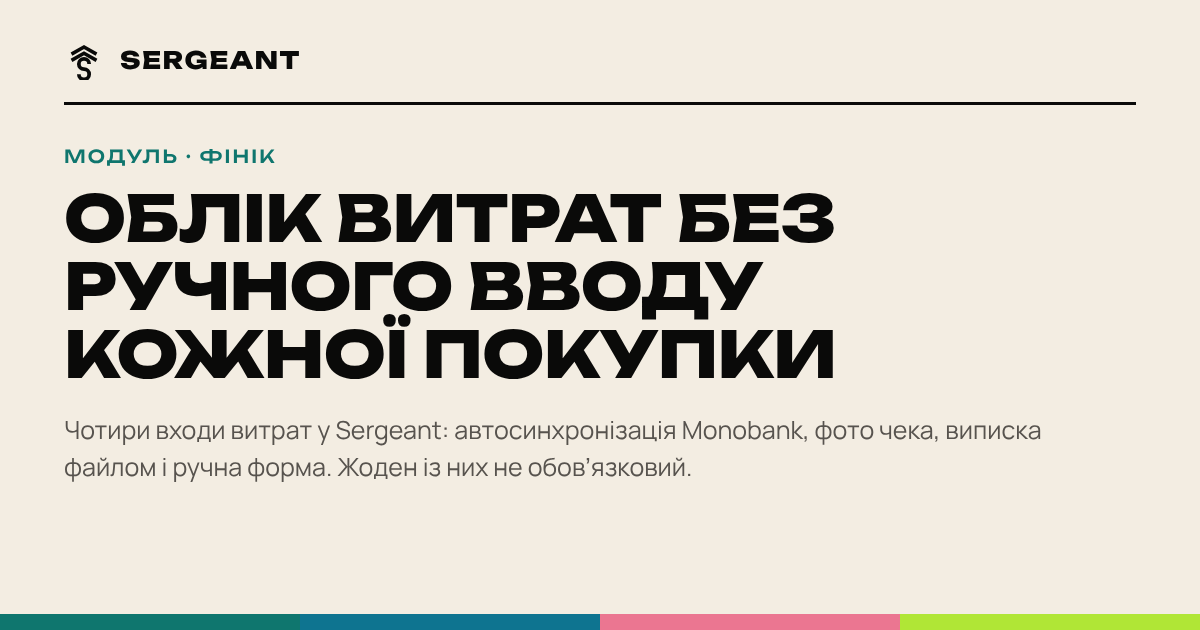
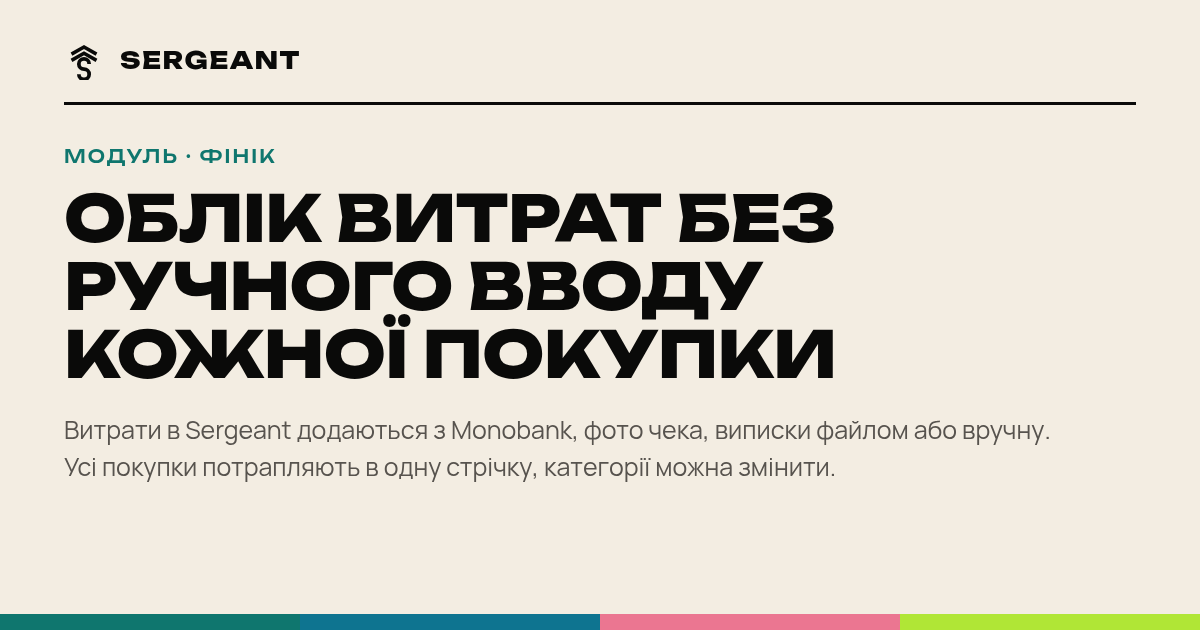
fix(web): clarify landing observations and request limits

Changed region(s): [[0.0308, 0.6635, 0.8633, 0.754], [0.1542, 0.2413, 0.185, 0.2714]]

diff --git a/apps/landing/src/pages/HomePage.tsx b/apps/landing/src/pages/HomePage.tsx
@@ -17,7 +17,7 @@ import { ORGANIZATION_ID } from "../lib/jsonLd";
 /**
  * Сценарії «живого звʼязку» в hero: скільки тренувань – стільки доставки.
  * Дані ілюстративні (підпис у нотатці про це каже) – сенс віджета в тому,
- * щоб показати причину-наслідок, а не конкретні числа. Рівень впевненості
+ * щоб показати спостереження, а не причинний вплив. Рівень впевненості
  * один на всі три стани: це та сама закономірність, а не три різні, і
  * підпис береться з канонічної шкали (`CONFIDENCE`), а не вигадується.
  */
@@ -25,17 +25,17 @@ const HERO_SCENARIOS = {
   1: {
     spend: "2 260",
     pct: 90,
-    note: "У тижні з одним тренуванням доставки найбільше",
+    note: "У тижні з одним тренуванням витрати на доставку найвищі",
   },
   3: {
     spend: "1 840",
     pct: 74,
-    note: "Три тренування, і замовлень доставки вже менше",
+    note: "У тижні з трьома тренуваннями витрати на доставку нижчі",
   },
   5: {
     spend: "1 320",
     pct: 53,
-    note: "Пʼять тренувань, і доставка падає майже вдвічі",
+    note: "У тижні з пʼятьма тренуваннями витрати на доставку найнижчі",
   },
 } as const;
 
@@ -47,7 +47,7 @@ type HeroTrainings = keyof typeof HERO_SCENARIOS;
  * Hero-колаж: картки даних, «розкидані на столі», і нотатка-інсайт, яку
  * Sergeant ніби лишив поверх них. Картка тренувань – живий перемикач:
  * 1/3/5 тренувань перераховують бар доставки і саму нотатку, показуючи
- * причину-наслідок замість статичної картинки. До lg – звичайна колонка
+ * спостереження з різних тижнів. До lg – звичайна колонка
  * з легкими нахилами, на lg – absolute-розкладка з пунктирними звʼязками.
  */
 function HeroCollage() {
@@ -178,7 +178,7 @@ export default function HomePage() {
           operatingSystem: "Web",
           description: ROUTE_META["/"].description,
           featureList: [
-            "Гроші: чотири входи витрат – синхронізація Monobank, фото чека, виписка файлом, ручна форма",
+            "Гроші: витрати з Monobank, фото чека, виписки файлом або вручну",
             "Тіло: щоденник тренувань, тоннаж і рекорди",
             "Звички: серія, яку не обнуляє пропуск із причиною",
             "Їжа: КБЖВ зі штрихкоду, фото страви та української бази продуктів",
@@ -223,14 +223,20 @@ export default function HomePage() {
           </h1>
           <p className="max-w-lg text-lg leading-relaxed text-pretty text-muted">
             Гроші, тренування, звички і їжа в одному приватному застосунку. Він
-            помічає, як тиждень без тренувань відгукується в доставці, і
-            мовчить, поки даних замало. Рахує, а не читає лекцій.
+            порівнює твої записи й помічає звʼязки між сферами, коли даних
+            вистачає. Рахує, а не читає лекцій.
           </p>
           <div className="flex flex-col gap-2.5">
             <TelegramCta placement="hero" label="Стати в чергу" />
             <p className="text-sm text-subtle">
-              безкоштовно назавжди: чотири модулі й 20 дій Сержанта щотижня ·
-              дані твої,{" "}
+              безкоштовно назавжди: чотири модулі й{" "}
+              <a
+                href="/pomichnyk#limity"
+                className="font-semibold text-foreground underline decoration-cardline-strong underline-offset-4 transition hover:decoration-current focus-visible:outline-2 focus-visible:outline-offset-2 focus-visible:outline-ink"
+              >
+                20 запитів до Сержанта щотижня
+              </a>{" "}
+              · дані твої,{" "}
               <a
                 href="/vyhid"
                 className="font-semibold text-foreground underline decoration-cardline-strong underline-offset-4 transition hover:decoration-current focus-visible:outline-2 focus-visible:outline-offset-2 focus-visible:outline-ink"

diff --git a/apps/landing/src/components/HomeSections.tsx b/apps/landing/src/components/HomeSections.tsx
@@ -62,10 +62,10 @@ export function ModulesSection() {
           <p className={label}>модуль Фінік</p>
           <h3 className={`${title} group-hover:underline`}>Гроші</h3>
           <p className={`${body} text-ink-text`}>
-            Чотири входи витрат замість одного банку.
+            Витрати з банку, фото чека, виписки або вручну.
           </p>
           <p className="mt-3 text-xs leading-relaxed text-ink-text">
-            У звʼязках: як доставка їжі залежить від тренувань
+            У звʼязках: тренування і витрати на доставку
           </p>
         </a>
 
@@ -79,7 +79,7 @@ export function ModulesSection() {
             Щоденник тренувань і порада, коли відпочити.
           </p>
           <p className="mt-3 text-xs leading-relaxed text-ink-text">
-            У звʼязках: як тренування тримають звички
+            У звʼязках: тренування і виконання звичок
           </p>
         </a>
 
@@ -93,7 +93,7 @@ export function ModulesSection() {
             Пропуск із причиною не обнуляє серію.
           </p>
           <p className="mt-3 text-xs leading-relaxed text-ink">
-            У звʼязках: як звички впливають на їжу і витрати
+            У звʼязках: звички, їжа і витрати
           </p>
         </a>
 
@@ -107,7 +107,7 @@ export function ModulesSection() {
             КБЖВ, коли половини продуктів немає в базах.
           </p>
           <p className="mt-3 text-xs leading-relaxed text-ink">
-            У звʼязках: як їжа відгукується на звички
+            У звʼязках: їжа і виконання звичок
           </p>
         </a>
       </div>
@@ -140,7 +140,7 @@ export function ConnectionExamples() {
           <span className="text-routine-strong">Рутина</span>
         </div>
         <blockquote className="text-lg font-medium leading-snug text-foreground">
-          «Коли тренуєшся важче, краще тримаєш звички»
+          «У дні з більшим обʼємом тренувань звички виконувалися частіше»
         </blockquote>
         <figcaption className="mt-auto text-xs text-subtle">
           {CONFIDENCE.stable} · 34 спільні дні
@@ -157,7 +157,7 @@ export function ConnectionExamples() {
           <span className="text-routine-strong">Рутина</span>
         </div>
         <blockquote className="text-lg font-medium leading-snug text-foreground">
-          «Коли тримаєш звички, їси менше»
+          «У дні з виконаними звичками записано менше калорій»
         </blockquote>
         <figcaption className="mt-auto text-xs text-subtle">
           {CONFIDENCE.coincidence} · 2 тижні даних
@@ -194,8 +194,8 @@ export function ConnectionsSection() {
         Звʼязки, які він помічає
       </h2>
       <p className="mt-4 max-w-2xl leading-relaxed text-muted">
-        Окремі трекери показують цифри. Застосунок читає всі сфери разом і
-        показує, як вони впливають одна на одну. А коли даних замало, мовчить.
+        Окремі трекери показують цифри. Застосунок порівнює записи з усіх сфер і
+        показує звʼязки між ними. Коли даних замало, мовчить.
       </p>
 
       <ConnectionExamples />

diff --git a/apps/landing/src/pages/HroshiPage.tsx b/apps/landing/src/pages/HroshiPage.tsx
@@ -129,10 +129,10 @@ export default function HroshiPage() {
         Облік витрат без ручного вводу кожної покупки
       </h1>
       <p className="mt-5 max-w-2xl text-lg leading-relaxed text-pretty text-muted">
-        У Фініку чотири входи витрат, і жоден із них не головний. Банк присилає
-        операції сам. Паперовий чек стає витратою з фотографії, виписку іншого
-        банку можна завантажити файлом. Руками лишається те, на що немає ні
-        чека, ні виписки.
+        Витрати додаються з Monobank, фото чека, виписки файлом або вручну.
+        Monobank присилає операції сам. Паперовий чек стає витратою з
+        фотографії, виписку іншого банку можна завантажити файлом. Руками
+        лишається те, на що немає ні чека, ні виписки.
       </p>
       <p className="mt-3 text-sm text-subtle">
         Оновлено{" "}
@@ -143,7 +143,7 @@ export default function HroshiPage() {
       </p>
 
       <section className="mt-14">
-        <h2 className={h2}>Чотири входи</h2>
+        <h2 className={h2}>Як додати витрату</h2>
         <p className={body}>
           Без Monobank Фінік працює так само: чек, виписка і ручна форма банку
           не потребують. Підключити його можна пізніше або ніколи.
@@ -164,8 +164,9 @@ export default function HroshiPage() {
           ))}
         </div>
         <p className="mt-6 max-w-2xl text-sm leading-relaxed text-subtle">
-          Усі чотири входи ведуть в одну стрічку операцій. Категорію будь-якої з
-          них можна змінити руками, і твій вибір перебиває вгадування.
+          Витрати з усіх джерел потрапляють в одну стрічку операцій. Категорію
+          будь-якої з них можна змінити руками, і твій вибір перебиває
+          вгадування.
         </p>
       </section>
 

diff --git a/apps/landing/src/pages/PomichnykPage.tsx b/apps/landing/src/pages/PomichnykPage.tsx
@@ -79,7 +79,7 @@ export default function PomichnykPage() {
       <p className="mt-5 max-w-2xl text-lg leading-relaxed text-pretty text-muted">
         Чат, який бачить твої гроші, тренування, звички і їжу разом. Питаєш
         своїми словами, він відповідає цифрами з твоїх записів і, якщо попросиш,
-        записує нове. Безкоштовно 20 дій на тиждень.
+        записує нове. Безкоштовно 20 запитів на тиждень.
       </p>
       <p className="mt-3 text-sm text-subtle">
         Оновлено{" "}
@@ -154,13 +154,15 @@ export default function PomichnykPage() {
         </p>
       </section>
 
-      <section className="mt-14">
+      <section id="limity" className="mt-14 scroll-mt-16">
         <h2 className={h2}>Скільки це коштує</h2>
         <p className={body}>
-          Ядро продукту безкоштовне назавжди, і Сержант у ньому теж є: 20 дій на
-          тиждень, оновлюються щопонеділка. Дія – це одне повідомлення Сержанту:
-          питання і прохання щось записати коштують однаково. Звіт тижня в цю
-          квоту не входить.
+          Ядро продукту безкоштовне назавжди, і Сержант у ньому теж є: 20
+          запитів на тиждень, ліміт оновлюється щопонеділка. Одне повідомлення
+          Сержанту витрачає один запит: питання і прохання щось записати
+          рахуються однаково. Цей ліміт спільний із AI-запитами з модулів, як-от
+          планом харчування на день чи розбором комори. Звіт тижня в цю квоту не
+          входить.
         </p>
         <p className={body}>
           {PREMIUM_CLAIM}. {PRICE_CLAIM}: обіцяти число, яке ще зміниться, не

diff --git a/apps/landing/src/pages/ZvyazkyPage.tsx b/apps/landing/src/pages/ZvyazkyPage.tsx
@@ -62,8 +62,8 @@ export default function ZvyazkyPage() {
         відповідає на питання, чому тиждень вийшов таким, яким вийшов.
       </p>
       <p className="mt-4 max-w-2xl leading-relaxed text-muted">
-        Застосунок тримає всі чотири сфери разом, щоб рахувати, як вони тягнуть
-        одна одну, і показує це лише тоді, коли даних вистачає.
+        Застосунок тримає всі чотири сфери разом, порівнює записи й показує
+        звʼязки між ними, коли даних вистачає.
       </p>
 
       <section className="mt-14">

diff --git a/apps/landing/src/content/faqItems.ts b/apps/landing/src/content/faqItems.ts
@@ -22,7 +22,7 @@ export const FAQ_ITEMS = [
   },
   {
     q: "Чи працює без підписки?",
-    a: `Так. Ядро безкоштовне назавжди, у Сержанта безкоштовно 20 дій на тиждень. ${PREMIUM_CLAIM}.`,
+    a: `Так. Ядро безкоштовне назавжди, у Сержанта безкоштовно 20 запитів на тиждень. Одне повідомлення в чаті витрачає один запит; цей ліміт спільний із AI-запитами з модулів. ${PREMIUM_CLAIM}.`,
   },
   {
     q: "Звідки застосунок знає, що звʼязок справжній, а не збіг?",

diff --git a/apps/landing/src/pages/GuideSilpoPage.tsx b/apps/landing/src/pages/GuideSilpoPage.tsx
@@ -208,7 +208,7 @@ export default function GuideSilpoPage() {
 
         <div className="flex flex-col gap-2.5 border-t border-cardline pt-6">
           <p className="text-sm leading-relaxed text-muted">
-            Звʼязка з Сільпо доповнює чотири входи витрат у Фініку:
+            Звʼязка з Сільпо доповнює способи додати витрату у Фініку:
             автосинхронізацію Monobank, фото чека, виписку файлом і ручну форму.{" "}
             <a href="/hroshi" className={link}>
               Як влаштовані гроші
